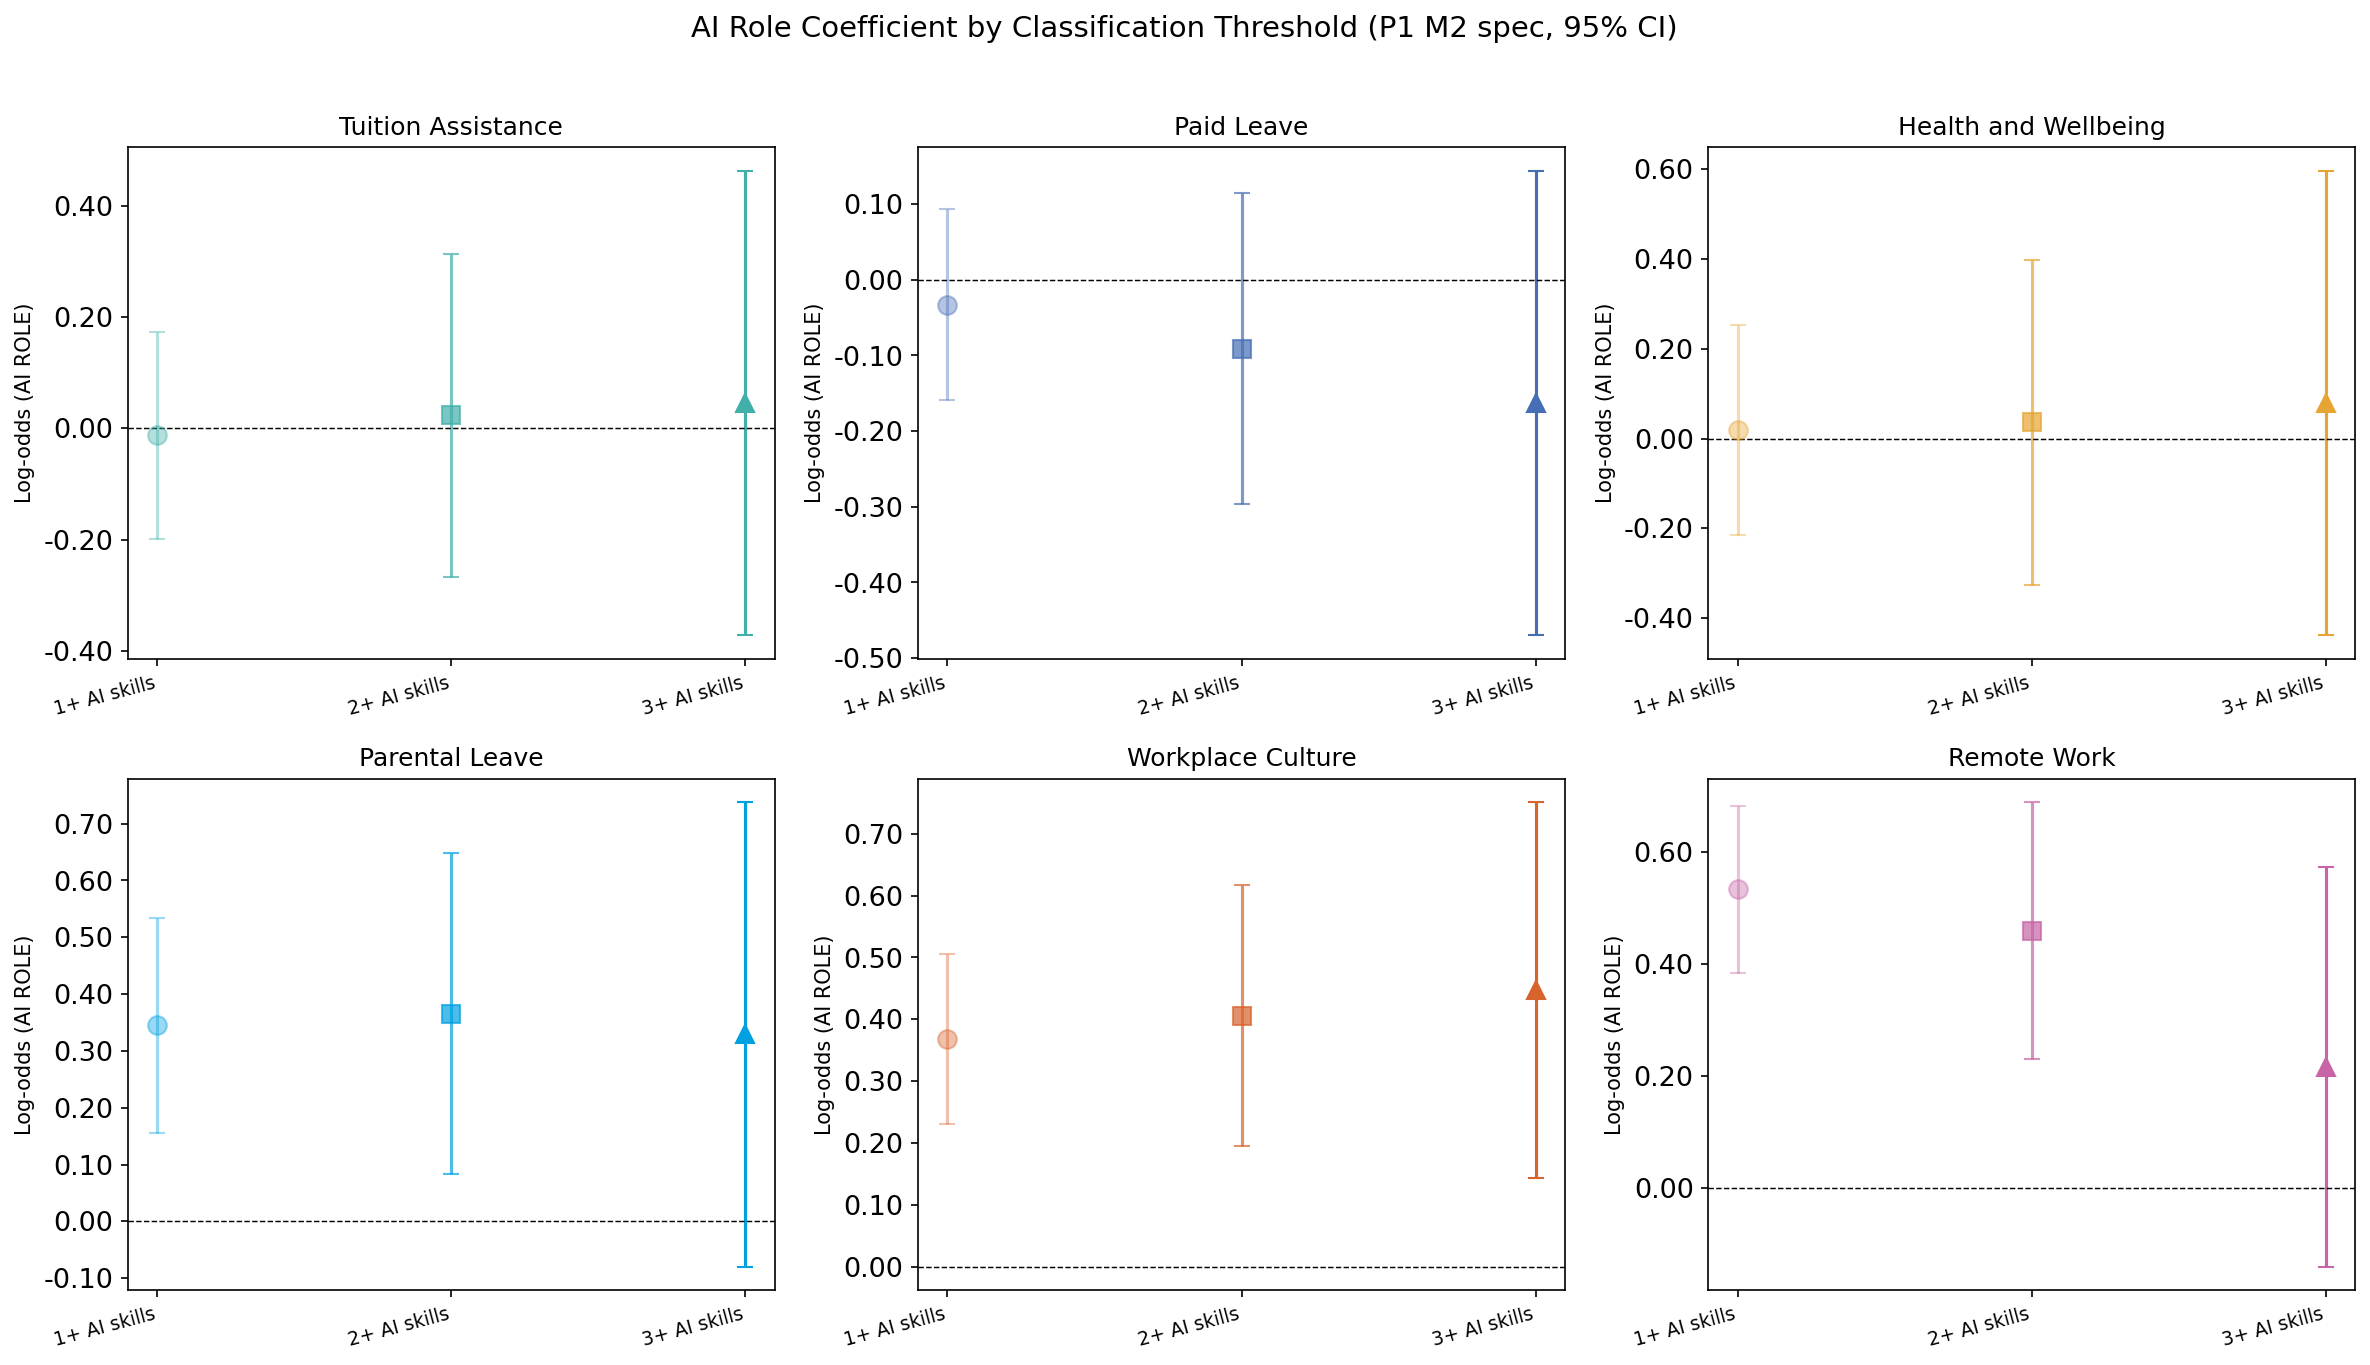
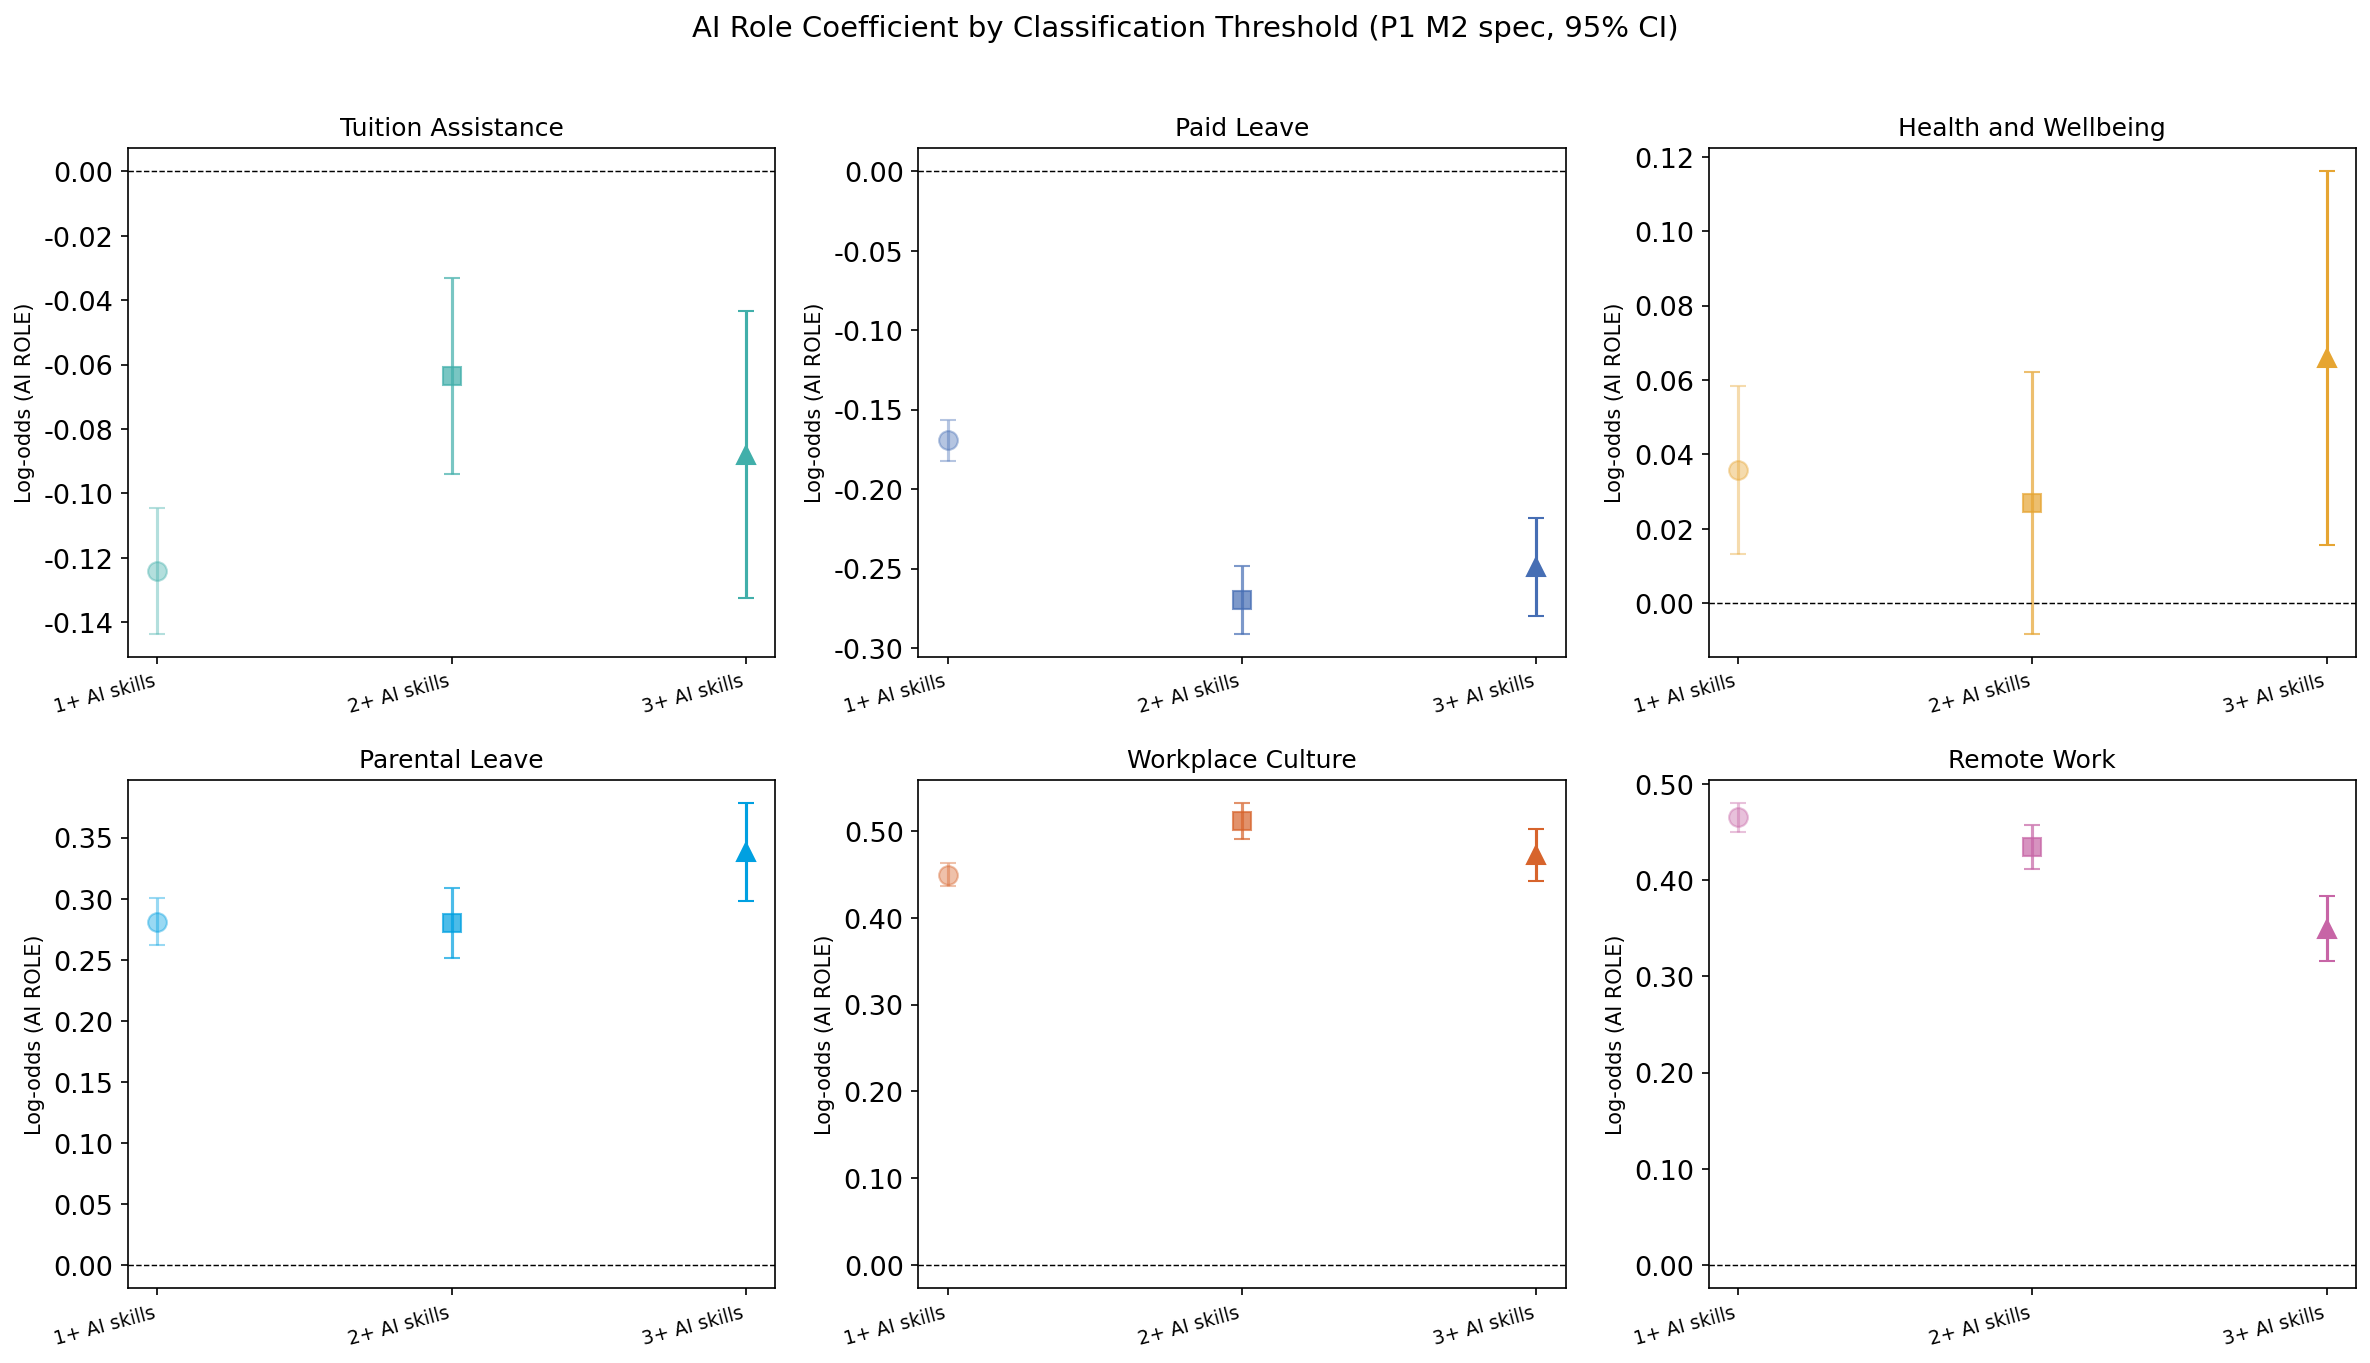
upload final results

diff --git a/analysis/perk_positioning_analysis.py b/analysis/perk_positioning_analysis.py
@@ -25,7 +25,9 @@ import matplotlib.ticker as mticker
 import statsmodels.api as sm
 from pathlib import Path
 
-sys.path.append(str(Path(__file__).parent.parent / "src"))
+REPO_ROOT_PATH = Path(__file__).resolve().parent.parent
+sys.path.append(str(REPO_ROOT_PATH))
+sys.path.append(str(REPO_ROOT_PATH / "src"))
 from package_files.benefits_defns import (
     benefits4,
     benefits4_labels,
@@ -33,11 +35,25 @@ from package_files.benefits_defns import (
     industry,
     year,
 )
+from package_files.config_utils import get_processed_dir, get_repo_root
+from scripts.label_benefits import (
+    check_benefit_position,
+    culture,
+    edu_assistance,
+    health_wellbeing,
+    leave,
+    parental_leave,
+    tuition_to_exclude,
+    wellbeing_to_exclude,
+)
+from scripts.label_benefits_remote import remote_keywords, remote_to_exclude
 
 plt.rcParams.update({"font.size": 13})
 
-OUTPUT_FIGS = Path("results/figures_2026")
-OUTPUT_TABLES = Path("results/tables_2026")
+REPO_ROOT = get_repo_root()
+PROCESSED_DIR = get_processed_dir()
+OUTPUT_FIGS = REPO_ROOT / "results" / "figures_2026"
+OUTPUT_TABLES = REPO_ROOT / "results" / "tables_2026"
 
 POSITION_COLS = {
     "EDU_ASSISTANCE":    "EDU_ASSISTANCE_POSITION",
@@ -48,16 +64,79 @@ POSITION_COLS = {
     "REMOTE_KW":         "REMOTE_KW_POSITION",
 }
 
+POSITION_KEYWORDS = {
+    "EDU_ASSISTANCE": (edu_assistance, tuition_to_exclude),
+    "PAID LEAVE": (leave, None),
+    "HEALTH_WELLBEING": (health_wellbeing, wellbeing_to_exclude),
+    "PARENTAL_LEAVE": (parental_leave, None),
+    "CULTURE": (culture, None),
+    "REMOTE_KW": (remote_keywords, remote_to_exclude),
+}
+
+
+def ensure_position_columns(df):
+    """Add missing prominence columns from BODY using the existing keyword rules."""
+    missing = [col for col in POSITION_COLS.values() if col not in df.columns]
+    if not missing:
+        return df
+
+    if "BODY" not in df.columns:
+        raise KeyError(
+            "Missing perk prominence columns and BODY is unavailable, so positions "
+            f"cannot be computed. Missing columns: {', '.join(missing)}"
+        )
+
+    print(
+        "Computing missing perk prominence columns from BODY: "
+        + ", ".join(missing)
+    )
+
+    for benefit, pos_col in POSITION_COLS.items():
+        if pos_col in df.columns:
+            continue
+
+        keywords, exclusions = POSITION_KEYWORDS[benefit]
+        if benefit in df.columns:
+            mask = df[benefit].fillna(False).astype(bool)
+        else:
+            mask = pd.Series(True, index=df.index)
+            print(f"  Warning: {benefit} flag missing; scanning all postings")
+
+        df[pos_col] = np.nan
+        if not mask.any():
+            print(f"  {pos_col}: no matching {benefit} rows")
+            continue
+
+        positions = check_benefit_position(df.loc[mask, "BODY"], keywords, exclusions)
+        df.loc[mask, pos_col] = pd.Series(
+            positions.astype("float64"),
+            index=df.index[mask],
+        )
+
+        valid = df[pos_col].notna().sum()
+        print(f"  {pos_col}: {valid:,} matches")
+
+    return df
+
 
 def load_data():
-    _base = Path(__file__).parent.parent / "data" / "processed"
-    df = pd.read_parquet(_base / "labeled_v1.parquet")
-    print(f"Loaded {len(df):,} rows")
+    """Load and prepare the configured analysis dataset."""
+    print("Loading analysis dataset...")
+
+    data_path = PROCESSED_DIR / "labeled_v2.parquet"
+    if not data_path.exists():
+        print(f"Warning: {data_path} not found. Please update the path.")
+        return None
+
+    df = pd.read_parquet(data_path)
+    print(f"Loaded {len(df):,} rows from {data_path}")
 
     # Consolidate rare industries
     ind_counts = df[industry].value_counts()
     small = ind_counts[ind_counts < 30].index
     df[industry] = df[industry].replace(small, "Other")
+
+    df = ensure_position_columns(df)
 
     return df
 
@@ -218,6 +297,9 @@ def plot_results(results_df):
 def main():
     print("Loading data...")
     df = load_data()
+    if df is None:
+        print("Error: Could not load data. Please check the data path.")
+        return
 
     print("\nDescriptive statistics:")
     desc_df = print_descriptive(df)

diff --git a/analysis/ai_threshold_robustness.py b/analysis/ai_threshold_robustness.py
@@ -34,11 +34,14 @@ from package_files.benefits_defns import (
     year,
     experience,
 )
+from package_files.config_utils import get_processed_dir, get_repo_root
 
 plt.rcParams.update({"font.size": 13})
 
-OUTPUT_FIGS = Path("results/figures_2026")
-OUTPUT_TABLES = Path("results/tables_2026")
+REPO_ROOT = get_repo_root()
+PROCESSED_DIR = get_processed_dir()
+OUTPUT_FIGS = REPO_ROOT / "results" / "figures_2026"
+OUTPUT_TABLES = REPO_ROOT / "results" / "tables_2026"
 
 THRESHOLDS = {
     "1+ AI skills": ("AI ROLE", 1),
@@ -48,15 +51,22 @@ THRESHOLDS = {
 
 
 def load_data():
-    _base = Path(__file__).parent.parent / "data" / "processed"
-    df = pd.read_parquet(_base / "labeled_v1.parquet")
-    print(f"Loaded {len(df):,} rows")
+    """Load and prepare the configured analysis dataset."""
+    print("Loading analysis dataset...")
+
+    data_path = PROCESSED_DIR / "labeled_v2.parquet"
+    if not data_path.exists():
+        print(f"Warning: {data_path} not found. Please update the path.")
+        return None
+
+    df = pd.read_parquet(data_path)
+    print(f"Loaded {len(df):,} rows from {data_path}")
 
     # Verify AI_SKILL_COUNT is present
     if "AI_SKILL_COUNT" not in df.columns:
         raise ValueError(
             "AI_SKILL_COUNT column not found. Re-run scripts/prepare_data.py "
-            "and scripts/label_benefits.py to regenerate labeled_v1.parquet."
+            "and scripts/label_benefits.py to regenerate labeled_v2.parquet."
         )
 
     # Create alternative threshold flags
@@ -227,6 +237,9 @@ def plot_results(results_df):
 def main():
     print("Loading data...")
     df = load_data()
+    if df is None:
+        print("Error: Could not load data. Please check the data path.")
+        return
 
     print("\nRunning models across thresholds...")
     results_df = run_threshold_models(df)

diff --git a/analysis/high_ai_firm_analysis.py b/analysis/high_ai_firm_analysis.py
@@ -32,17 +32,27 @@ from package_files.benefits_defns import (
     benefit_colors,
     firm,
 )
+from package_files.config_utils import get_processed_dir, get_repo_root
 
 plt.rcParams.update({"font.size": 14})
 
-OUTPUT_FIGS = Path("results/figures_2026/high_ai_firms")
-OUTPUT_TABLES = Path("results/tables_2026")
+REPO_ROOT = get_repo_root()
+PROCESSED_DIR = get_processed_dir()
+OUTPUT_FIGS = REPO_ROOT / "results" / "figures_2026" / "high_ai_firms"
+OUTPUT_TABLES = REPO_ROOT / "results" / "tables_2026"
 
 
 def load_data():
-    _base = Path(__file__).parent.parent / "data" / "processed"
-    df = pd.read_parquet(_base / "labeled_v1.parquet")
-    print(f"Loaded {len(df):,} rows")
+    """Load the configured analysis dataset."""
+    print("Loading analysis dataset...")
+
+    data_path = PROCESSED_DIR / "labeled_v2.parquet"
+    if not data_path.exists():
+        print(f"Warning: {data_path} not found. Please update the path.")
+        return None
+
+    df = pd.read_parquet(data_path)
+    print(f"Loaded {len(df):,} rows from {data_path}")
     return df
 
 
@@ -264,6 +274,9 @@ def main():
 
     print("Loading data...")
     df = load_data()
+    if df is None:
+        print("Error: Could not load data. Please check the data path.")
+        return
 
     print("\nComputing firm statistics...")
     df, firm_totals = compute_firm_stats(df)
